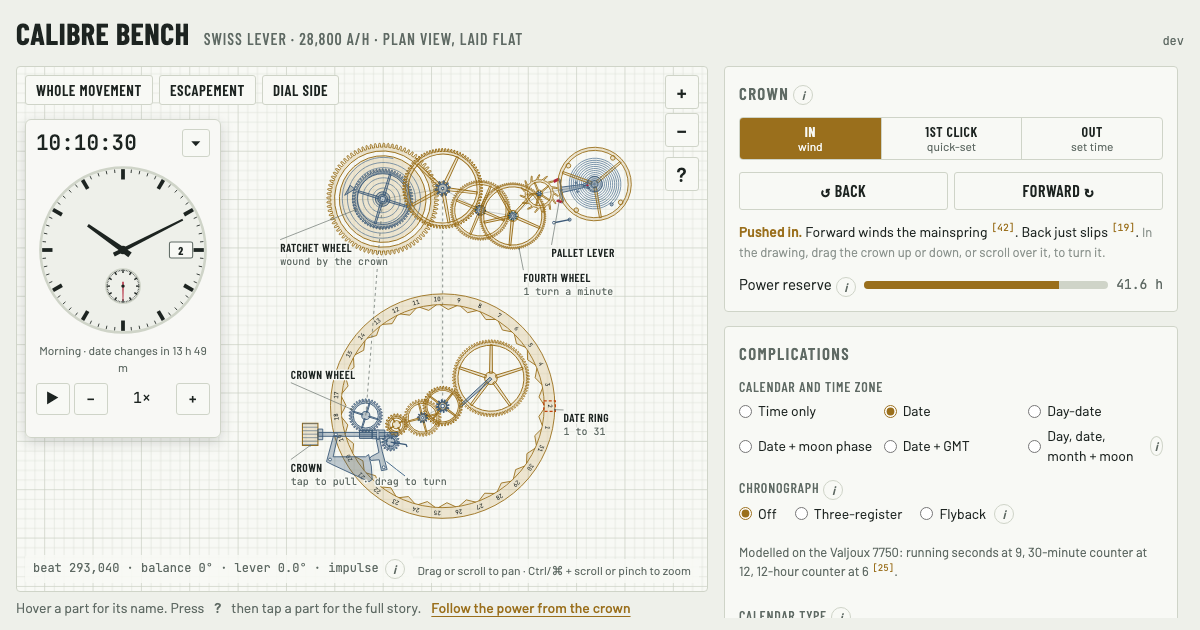
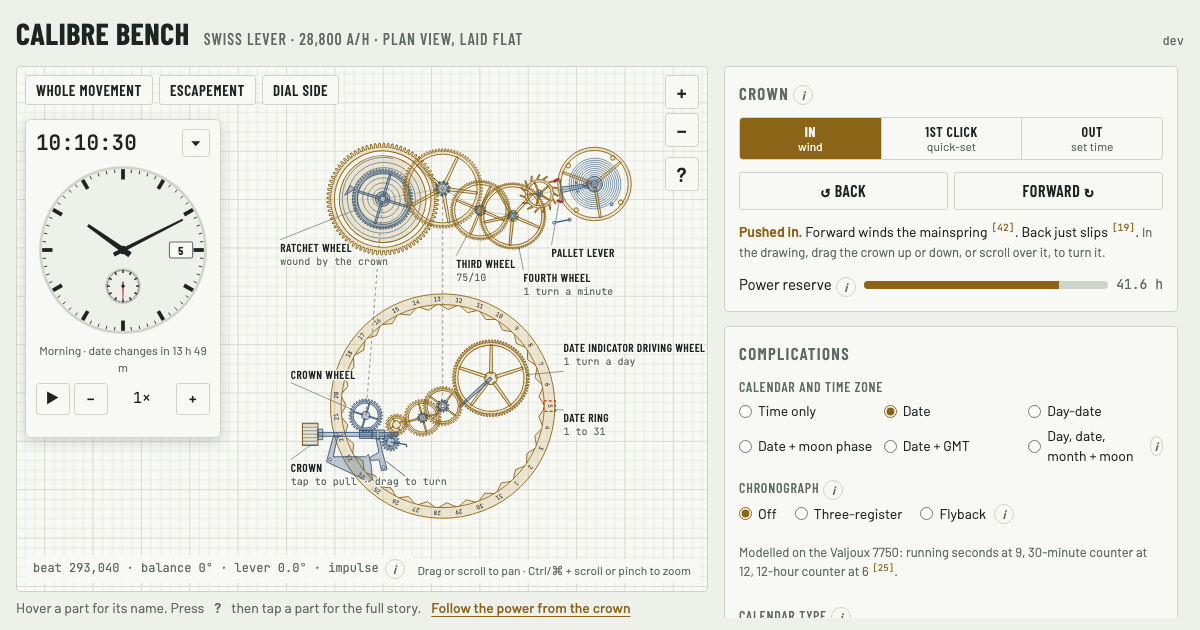
Up to standard: tests gate the deploy, phone and accessibility checks
- CI runs unit and browser tests (desktop and phone, axe) before deploying.
- Fixed: main landmark; brass text darkened slightly to 4.5:1 in light theme;
  .muted uses the muted color instead of fading with opacity.
- Contact line under Sources; CLAUDE.md.

diff --git a/css/style.css b/css/style.css
@@ -8,7 +8,7 @@ img{max-width:100%}
 /* Layout: a watchmaker's plan drawing on millimetre paper, bench controls below it like a parts sheet */
 :root{
   --paper:#eef0ea; --sheet:#f8f9f5; --ink:#1d2421; --muted:#5f6a64; --grid:#d9ddd3; --grid-major:#c6ccbf;
-  --brass:#9a6f1c; --brass-fill:rgba(196,150,58,.20); --steel:#3c5a78; --steel-fill:rgba(60,90,120,.30);
+  --brass:#8c6418; --brass-fill:rgba(196,150,58,.20); --steel:#3c5a78; --steel-fill:rgba(60,90,120,.30);
   --ruby:#b3263c; --spring:#4b6e8f; --ok:#2f7a4c; --off:#b3402a; --line:#cfd4c8; --sel:#c2410c; --shadow:rgba(30,36,33,.18);
   --f-display:"Barlow Condensed","Arial Narrow",sans-serif;
   --f-body:"Barlow","Helvetica Neue",Arial,sans-serif;
@@ -249,7 +249,7 @@ fieldset.opts legend{font-family:var(--f-display);font-size:14px;letter-spacing:
 .moonset{display:grid;gap:6px;border-top:1px solid var(--line);padding-top:10px}
 .moonset p{margin:0}
 .moonset .ok{color:var(--ok)}
-.muted{opacity:.7}
+.muted{color:var(--muted)}
 .reserve{display:grid;grid-template-columns:auto 1fr auto;gap:8px;align-items:center}
 .bar{height:8px;border-radius:4px;background:var(--line);overflow:hidden}
 .bar i{display:block;height:100%;background:var(--brass);width:0}

diff --git a/playwright.config.js b/playwright.config.js
@@ -1,11 +1,22 @@
-const { defineConfig } = require('@playwright/test');
+const { defineConfig, devices } = require('@playwright/test');
 
+// Every test runs at desktop and phone size, except ones tagged @desktop.
 module.exports = defineConfig({
   testDir: './e2e',
-  use: { baseURL: 'http://localhost:8094' },
+  fullyParallel: true,
+  forbidOnly: !!process.env.CI,
+  retries: process.env.CI ? 1 : 0,
+  reporter: process.env.CI ? [['list'], ['html', { open: 'never' }]] : 'list',
+  use: { baseURL: 'http://localhost:8094', trace: 'on-first-retry' },
+  projects: [
+    { name: 'desktop', use: { ...devices['Desktop Chrome'] } },
+    { name: 'phone', use: { ...devices['Pixel 7'] }, grepInvert: /@desktop/ },
+  ],
   webServer: {
     command: 'python3 -m http.server 8094',
     url: 'http://localhost:8094',
     reuseExistingServer: !process.env.CI,
+    stdout: 'ignore',
+    stderr: 'ignore',
   },
 });

diff --git a/index.html b/index.html
@@ -17,7 +17,7 @@
 <link rel="stylesheet" href="css/style.css">
 </head>
 <body>
-<div class="app">
+<main class="app">
   <header>
     <h1>Calibre Bench</h1>
     <span class="sub">Swiss lever · 28,800 A/h · plan view, laid flat</span>
@@ -190,9 +190,10 @@
     <p class="small">Tooth shape<button class="info" data-term="profile" aria-label="What is the tooth shape?">i</button></p>
     <h2 class="srch">Sources</h2>
     <ol class="sources" id="sourceList"></ol>
+    <p class="small">Questions: corey.sciuto+calibre@gmail.com</p>
   </section>
   </div>
-</div>
+</main>
 
 <aside id="card" class="card" role="dialog" aria-modal="false" aria-labelledby="cardTitle" hidden>
   <div class="card-head"><span class="card-kind" id="cardKind"></span><button class="x" id="cardClose" aria-label="Close">×</button></div>

diff --git a/e2e/a11y.spec.js b/e2e/a11y.spec.js
@@ -1,0 +1,14 @@
+const { test, expect } = require('@playwright/test');
+const AxeBuilder = require('@axe-core/playwright').default;
+
+// Every page, checked with axe. Add new pages here: [name, path, selector that appears once it has rendered].
+const PAGES = [['Calibre Bench', '/', '#version']];
+
+for (const [name, path, ready] of PAGES) {
+  test(`${name}: no accessibility violations`, async ({ page }) => {
+    await page.goto(path);
+    await expect(page.locator(ready).first()).toBeVisible();
+    const r = await new AxeBuilder({ page }).analyze();
+    expect(r.violations.map((v) => `${v.id}: ${v.nodes.length} × ${v.nodes[0].target}`)).toEqual([]);
+  });
+}

diff --git a/CLAUDE.md b/CLAUDE.md
@@ -1,0 +1,15 @@
+# Calibre Bench
+
+An interactive plan drawing of a mechanical watch movement. See README.md for what's in it.
+
+Follows the app standards in [csciuto/app-template STANDARDS.md](https://github.com/csciuto/app-template/blob/main/STANDARDS.md).
+Commit and push freely once tests pass.
+
+## This app
+
+- `js/model.js` and `js/complications.js` are the model (unit-tested in `tests/`); `js/view.js` draws;
+  `js/glossary.js` holds the part explanations and sources.
+- Every statement in the app is marked: a numbered source, *model value*, *worked out*, or *citation needed*.
+  Keep it that way. Tooth counts and modules are illustrative and the app says so.
+- `.github/workflows/deploy.yml` runs the unit tests and the browser tests (desktop and phone, axe) and only
+  then deploys, stamping `dev` in `#version`.
